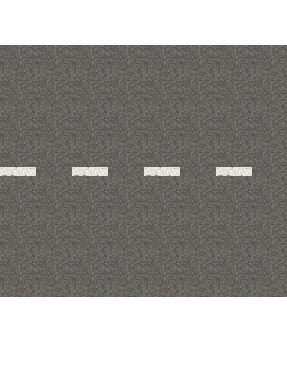
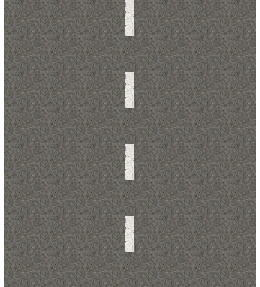
Pista que passa

diff --git a/carGame.js b/carGame.js
@@ -7,21 +7,22 @@ var musica
 
 function startGame() {
     
-    personagem = new component(30, 30, "car.png", 10, 120, "image");
-    
-    //fundo = new component(656, 270, "pista.png", 0, 0, "background");
+    personagem = new component(30, 30, "car.png", 185, 450, "image"); //tamX, tamY, imagem, posX, posY
+    //personagem = new component(30, 30, "red", 10, 120);
     
     pontuacao = new component("30px", "Consolas", "black", 280, 40, "text")
+    fundo = new component(300, 500, "pista.png", 0, 0, "background");
   
     areaDoJogo.start();
 }
 
 var areaDoJogo = {
+
     canvas: document.createElement("canvas"),
 
     start : function() {
-        this.canvas.width = 480;
-        this.canvas.height = 270;
+        this.canvas.width = 300;
+        this.canvas.height = 500;
         this.context = this.canvas.getContext("2d");
         document.body.insertBefore(this.canvas, document.body.childNodes[0]);
 
@@ -42,6 +43,138 @@ var areaDoJogo = {
     },
     stop : function() {
         clearInterval(this.interval);
-      }
+    }
 
+}
+
+function component( width, height, objeto, x, y, type) {
+
+    this.type = type;
+
+    if (type == "image" || type == "background") {
+        this.image = new Image();
+        this.image.src = objeto;
+    }
+
+    this.width = width;
+    this.height = height;
+    this.velocidadeX = 0;
+    this.velocidadeY = 0;
+    this.x = x;
+    this.y = y;
+
+    this.update = function(){
+
+        ctx = areaDoJogo.context;
+
+        if (this.type == "text") {
+            ctx.font = this.width + " " + this.height;
+            ctx.fillStyle = objeto;
+            ctx.fillText(this.text, this.x, this.y);
+        } else if (type == "image" || type == "background" ) {
+            ctx.drawImage(this.image, this.x, this.y, this.width, this.height);
+            
+            if ( type == "background"){ //loop
+                console.log("1: " + this.y)
+                ctx.drawImage(this.image, this.x , this.y - this.height, this.width, this.height);
+                console.log("2: " + (this.y - this.height) )
+            }
+        } else {
+            ctx.fillStyle = objeto;
+            ctx.fillRect(this.x, this.y, this.width, this.height);
+        }
+    }
+
+    this.newPos = function() {
+        this.x += this.velocidadeX;
+        this.y += this.velocidadeY;
+        if (this.type == "background") {
+            if (this.y == this.height ) {
+              this.y = 0;
+            }
+        }
+    }
+
+    this.colisaoCom = function( outroObjeto) {
+        var myleft = this.x;
+        var myright = this.x + (this.width);
+        var mytop = this.y;
+        var mybottom = this.y + (this.height);
+        var otherleft = outroObjeto.x;
+        var otherright = outroObjeto.x + (outroObjeto.width);
+        var othertop = outroObjeto.y;
+        var otherbottom = outroObjeto.y + (outroObjeto.height);
+        var colisao = true;
+        if ((mybottom < othertop) ||
+            (mytop > otherbottom) ||
+            (myright < otherleft) ||
+            (myleft > otherright)) {
+            colisao = false;
+        }
+        return colisao;
+      }
+}
+
+function atualizaAreaDoJogo() {
+
+    var x, y;
+    for (i = 0; i < obstaculos.length; i += 1) {
+        if (personagem.colisaoCom(obstaculos[i])) {
+          areaDoJogo.stop();
+          return;
+        }
+    }
+    areaDoJogo.clear();
+    personagem.velocidadeX = 0;
+    personagem.velocidadeY = 0;
+
+    if (areaDoJogo.keys && areaDoJogo.keys['ArrowLeft']  ) {personagem.velocidadeX = -1; personagem.image.src = "car2.png" }
+    if (areaDoJogo.keys && areaDoJogo.keys['ArrowRight'] ) {personagem.velocidadeX = 1; }
+    if (areaDoJogo.keys && areaDoJogo.keys['ArrowUp']    ) {personagem.velocidadeY = -1; }
+    if (areaDoJogo.keys && areaDoJogo.keys['ArrowDown']  ) {personagem.velocidadeY = 1;}
+
+    fundo.velocidadeY = 5;
+    fundo.newPos();
+    fundo.update();
+
+    areaDoJogo.frameNo += 1;
+
+    if (areaDoJogo.frameNo == 1 || everyinterval(50)) {
+        minWidth = 10;
+        maxWidth = 260;
+        width = Math.floor(Math.random()*(maxWidth-minWidth+1)+minWidth);
+        obstaculos.push( new component(30, 30, "car.png", width, -30, "image") );
+    }
+
+    for (i = 0; i < obstaculos.length; i += 1) {
+      obstaculos[i].y += 1;
+      obstaculos[i].update();
+    }
+
+    pontuacao.text = "Pontos: " + areaDoJogo.frameNo;
+    pontuacao.update();
+
+    personagem.newPos();
+    personagem.update();
+
+}
+
+function everyinterval(n) {
+    if ((areaDoJogo.frameNo / n) % 1 == 0) {return true;}
+    return false;
+}
+
+function sound(src) {
+    this.sound = document.createElement("audio");
+    this.sound.src = src;
+    this.sound.setAttribute("preload", "auto");
+    this.sound.setAttribute("controls", "none");
+    this.sound.style.display = "none";
+    document.body.appendChild(this.sound);
+    this.play = function(){
+      this.sound.play();
+    }
+    this.stop = function(){
+      this.sound.pause();
+    }
 }

diff --git a/index.html b/index.html
@@ -7,7 +7,17 @@
     <title> Canvas Game </title>
 
     <style>
+        #tela{
+            background-color: blue;
+            max-width: 100%;
+            max-height: 100%;
+            display: flex;
+            justify-content: center;
+            align-items: center;
+ 
+        }
         canvas {
+            margin: 0;
             border: 1px solid #d3d3d3;
             background-color: #f1f1f1;
         }
@@ -15,16 +25,8 @@
 
 </head>
 
-<body onload="startGame()">
+<body id="tela" onload="startGame()"></body>
 
-    <script src="carGame.js"></script>
-    <p>Area do Jogo</p>
+<script src="carGame.js"></script>
 
-    <!--
-    <button onclick="moveAcima()">cima</button>
-    <button onclick="moveAbaixo()">baixo</button>
-    <button onclick="moveEsquerda()">esquerda</button>
-    <button onclick="moveDireita()">direita</button>-->
-    
-</body>
 </html>

diff --git a/game.js b/game.js
@@ -169,7 +169,7 @@ function sound(src) {
     this.stop = function(){
       this.sound.pause();
     }
-  }
+}
 
 
 /*
